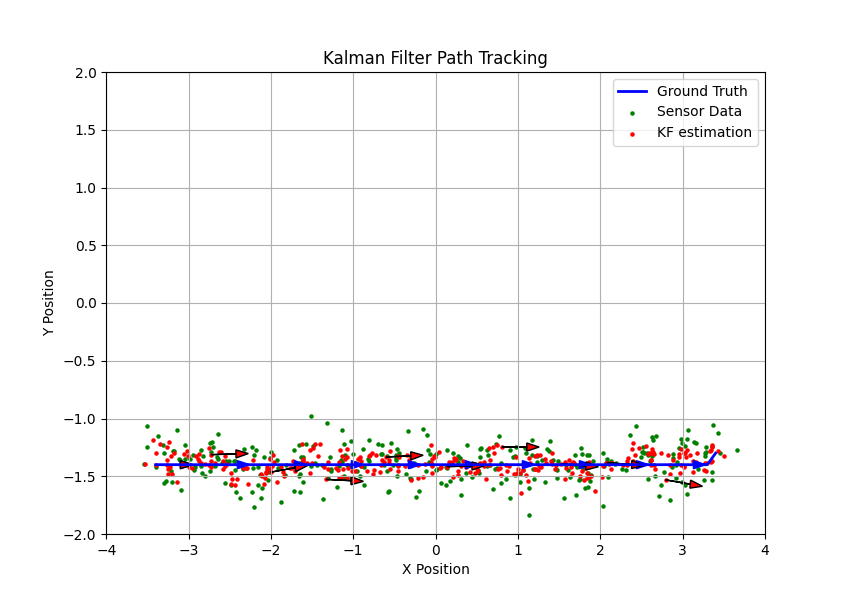
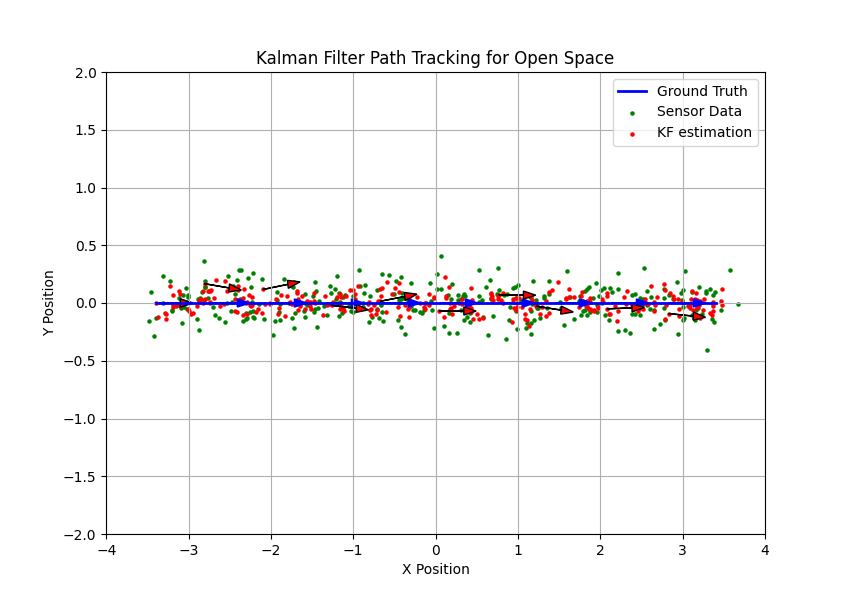
update path name

Changed region(s): [[0.1835, 0.72, 0.8565, 0.84], [0.1835, 0.45, 0.8565, 0.57], [0.3059, 0.06, 0.7341, 0.12]]

diff --git a/demo.py b/demo.py
@@ -13,14 +13,21 @@ from tqdm import tqdm
 
 def main(screenshot=False):
     map_list = ["pr2empty.json", "pr2maze.json" , "pr2complexMaze.json"]
-    path_list = ["path_empty.txt", "path_maze.txt", "path_complexMaze.txt"]
+    path_list = ["open_space.txt", "minor_obstacle.txt", "maze.txt"]
 
-    print(f"====================================\nDemo running...\nThere are 3 different maps in demo: pr2empty, pr2maze, pr2complexMaze\n============================")
+    print(f"====================================\nDemo running...\nThere are 3 different maps in demo: open space, minor obstacle, maze\n============================")
     wait_for_user()
+    
+    rmse_kf = []
+    rmse_pf = []
+    collision_count_kf = []
+    collision_count_pf = []
+    time_kf = []
+    time_pf = []
 
     for map_name, path_name in zip(map_list, path_list):
 
-        print(f"============================\nRunning Demo with Map: {map_name}...\nShowing path...")
+        print(f"============================\nRunning Demo with Map: {path_name}...\nShowing path...")
         # show path
         connect(use_gui=True)
         p.resetDebugVisualizerCamera(cameraDistance = 5, cameraYaw = 0, cameraPitch = -60, cameraTargetPosition = [0, 0, 0])
@@ -31,17 +38,27 @@ def main(screenshot=False):
             draw(pos,'black', radius=0.07)
         execute_trajectory(robots['pr2'], base_joints, path_gui.T, sleep=0.01)
         print(f"Path shown, please following the guidance:")
-        wait_if_gui()
+        # wait_if_gui()
         disconnect()
 
         # run kf and pf
         print(f"========\nRunning Kalman Filter...")
-        main_kf(path_name, map_name)
+        start = time.time()
+        rmse, collision_count = main_kf(path_name, map_name)
+        end = time.time()
+        rmse_kf.append(rmse)
+        collision_count_kf.append(collision_count)
+        time_kf.append(end - start)
         input("Press Enter to continue:")
         plt.close()
         
         print(f"========\nRunning Particle Filter...")
-        main_pf(path_name, map_name)
+        start = time.time()
+        rmse, collision_count = main_pf(path_name, map_name)
+        end = time.time()
+        rmse_pf.append(rmse)
+        collision_count_pf.append(collision_count)
+        time_pf.append(end - start)
         input("Press enter to continue:")
         plt.close()
         plt.close()
@@ -51,7 +68,25 @@ def main(screenshot=False):
 
     wait_if_gui()
     
-    print(f"All Demo Finished!\n====================================")
+    
+    print(f"All Demo Finished!\nResult as following:")
+    # Column widths
+    width_col1 = 20
+    width_col2 = 35
+    width_col3 = 35
+    width_col4 = 35
+
+    # Header
+    print(f"| {'MAP':<{width_col1}} | {'Open space':<{width_col2}} | {'Minor obstacle':<{width_col3}} | {'Maze':<{width_col4}} |")
+    print("|" + "-" * (width_col1 + 2) + "|" + "-" * (width_col2 + 2) + "|" + "-" * (width_col3 + 2) + "|" + "-" * (width_col4 + 2) + "|")
+    print(f"| {'RMSE_KF':<{width_col1}} | {format_list(rmse_kf[0], width_col2)} | {format_list(rmse_kf[1], width_col3)} | {format_list(rmse_kf[2], width_col4)} |")
+    print(f"| {'RMSE_PF':<{width_col1}} | {format_list(rmse_pf[0], width_col2)} | {format_list(rmse_pf[1], width_col3)} | {format_list(rmse_pf[2], width_col4)} |")
+    print(f"| {'Collision Count KF':<{width_col1}} | {format_item(collision_count_kf[0], width_col2)} | {format_item(collision_count_kf[1], width_col3)} | {format_item(collision_count_kf[2], width_col4)} |")
+    print(f"| {'Collision Count PF':<{width_col1}} | {format_item(collision_count_pf[0], width_col2)} | {format_item(collision_count_pf[1], width_col3)} | {format_item(collision_count_pf[2], width_col4)} |")
+    print(f"| {'Time KF':<{width_col1}} | {format_item(time_kf[0], width_col2)} | {format_item(time_kf[1], width_col3)} | {format_item(time_kf[2], width_col4)} |")
+    print(f"| {'Time PF':<{width_col1}} | {format_item(time_pf[0], width_col2)} | {format_item(time_pf[1], width_col3)} | {format_item(time_pf[2], width_col4)} |")
+
+    print(f"\n====================================")
     
 
 if __name__ == '__main__':

diff --git a/pf.py b/pf.py
@@ -21,11 +21,11 @@ Y_MAX = 4 # max y length for map
 ACTION_ONLY = False
 CHECK_COLLISION = True
 MAP = "pr2maze.json" 
-PATH = "path_maze.txt" 
+PATH = "minor_obstacle.txt" 
 # MAP = "pr2empty.json"
-# PATH = "path_empty.txt" 
+# PATH = "open_space.txt" 
 # MAP = "pr2complexMaze.json"
-# PATH = "path_complexMaze.txt" 
+# PATH = "maze.txt" 
     
 
 
@@ -262,7 +262,7 @@ def main_pf(path_pf, map_pf):
     plt.xlabel('X Position')
     plt.ylabel('Y Position')
     plt.grid(True)
-    plt.title('Particle Filter Path Tracking')
+    plt.title(f'Particle Filter Path Tracking for {path_pf.replace("_", " ").replace(".txt", "").title()}')
     
     plt.figure(2, figsize=(8, 6))
     plt.xlim(-4,4)
@@ -274,7 +274,7 @@ def main_pf(path_pf, map_pf):
     plt.xlabel('X Position')
     plt.ylabel('Y Position')
     plt.grid(True)
-    plt.title('Particle Filter Particle Examples')
+    plt.title(f'Particle Filter Particle Examples for {path_pf.replace("_", " ").replace(".txt", "").title()}')
 
     # plt.figure(3, figsize=(8, 6))
     # plt.xlim(-4,4)
@@ -283,6 +283,7 @@ def main_pf(path_pf, map_pf):
 
     plt.show(block=False) 
     disconnect()
+    return rmse, collision_count
 
 
 if __name__ == '__main__':

diff --git a/astar.py b/astar.py
@@ -350,8 +350,8 @@ def main(screenshot=False):
     # draw_sphere_marker((0, 0, 1), 0.1, (1, 0, 0, 1))
     
     start_config = tuple(get_joint_positions(robots['pr2'], base_joints))
-    goal_config = (3.4, -1.3, -np.pi/2)
-    # goal_config = (0, 0, 0)
+    # goal_config = (3.4, -1.3, -np.pi/2)
+    goal_config = (3.4, 0, -np.pi/2)
     path = []
     start_time = time.time()
     ### YOUR CODE HERE ###
@@ -361,7 +361,7 @@ def main(screenshot=False):
     # store the path for localization
     path = path.T
     # with open('path_maze.txt', 'w') as file:
-    with open('path_empty.txt', 'w') as file:
+    with open('open_space.txt', 'w') as file:
     # with open('path_complexMaze.txt', 'w') as file:
         for item in path:
             file.write(f'{item}\n')

diff --git a/kf.py b/kf.py
@@ -124,12 +124,13 @@ def main_kf(path_kf, map_kf):
     # Adding labels, title, grid, and legend
     plt.xlabel("X Position") 
     plt.ylabel("Y Position") 
-    plt.title("Kalman Filter Path Tracking") 
+    plt.title(f'Kalman Filter Path Tracking for {path_kf.replace("_", " ").replace(".txt", "").title()}') 
     plt.legend() 
     plt.grid(True) 
     plt.show(block=False) 
     disconnect()
+    return rmse, collision_count
     
 
 if __name__ == '__main__':
-    main_kf("path_maze.txt", "pr2maze.json")
+    main_kf("minor_obstacle.txt", "pr2maze.json")

diff --git a/utils_filter.py b/utils_filter.py
@@ -130,3 +130,11 @@ def check_collision_in_path(path, robots, base_joints, obstacles):
             collision = True
             count += 1
     return collision, count
+
+# Function to format list elements
+def format_list(lst, width):
+    return f"{str(lst):<{width}}"
+
+# Function to format single elements
+def format_item(item, width):
+    return f"{item:<{width}}"
